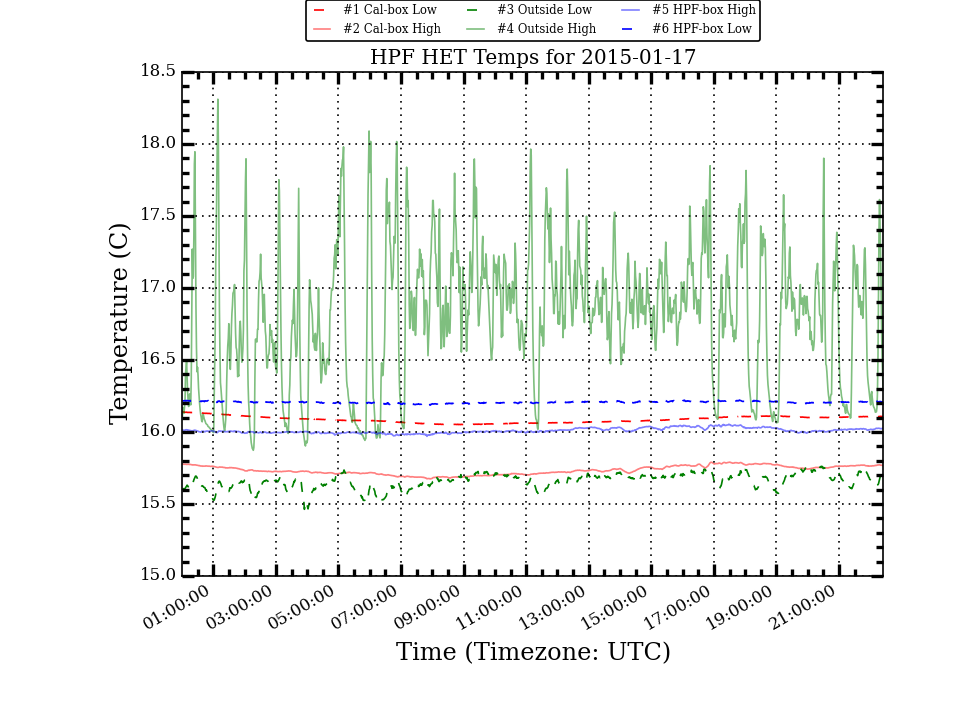
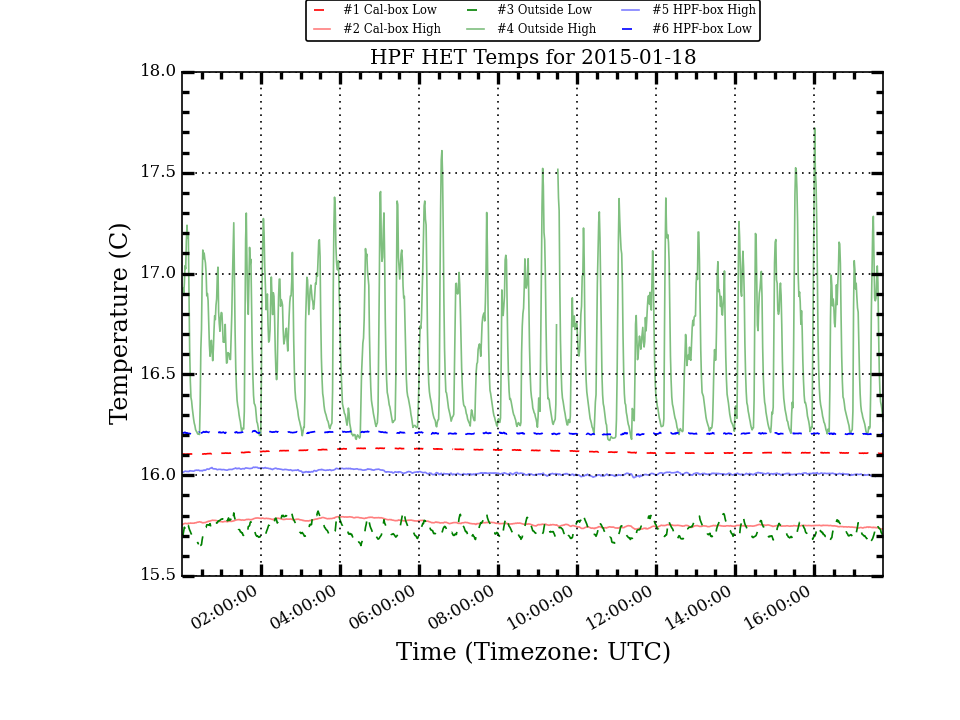
Update HPF Temp Plots

diff --git a/research/hpf_temps/plots/LakeShoreLogTotal_stats.html b/research/hpf_temps/plots/LakeShoreLogTotal_stats.html
@@ -1,0 +1,65 @@
+<TABLE cellpadding="4" style="border: 1px solid #000000; border-collapse: collapse;" border="1">
+ <TR>
+  <TH>Sensor</TH>
+  <TH>Mean</TH>
+  <TH>std</TH>
+  <TH>Median</TH>
+  <TH>Max</TH>
+  <TH>Min</TH>
+  <TH>Range</TH>
+ </TR>
+ <TR>
+  <TD>Sensor1</TD>
+  <TD>16.578</TD>
+  <TD>0.456</TD>
+  <TD>16.428</TD>
+  <TD>17.410</TD>
+  <TD>15.840</TD>
+  <TD>1.570</TD>
+ </TR>
+ <TR>
+  <TD>Sensor2</TD>
+  <TD>16.212</TD>
+  <TD>0.488</TD>
+  <TD>16.023</TD>
+  <TD>17.114</TD>
+  <TD>15.410</TD>
+  <TD>1.704</TD>
+ </TR>
+ <TR>
+  <TD>Sensor3</TD>
+  <TD>16.204</TD>
+  <TD>0.539</TD>
+  <TD>15.985</TD>
+  <TD>17.201</TD>
+  <TD>14.942</TD>
+  <TD>2.259</TD>
+ </TR>
+ <TR>
+  <TD>Sensor4</TD>
+  <TD>16.866</TD>
+  <TD>0.596</TD>
+  <TD>16.752</TD>
+  <TD>18.311</TD>
+  <TD>14.104</TD>
+  <TD>4.207</TD>
+ </TR>
+ <TR>
+  <TD>Sensor5</TD>
+  <TD>16.242</TD>
+  <TD>0.476</TD>
+  <TD>16.044</TD>
+  <TD>17.147</TD>
+  <TD>15.149</TD>
+  <TD>1.998</TD>
+ </TR>
+ <TR>
+  <TD>Sensor6</TD>
+  <TD>16.443</TD>
+  <TD>0.472</TD>
+  <TD>16.238</TD>
+  <TD>17.356</TD>
+  <TD>14.668</TD>
+  <TD>2.688</TD>
+ </TR>
+</TABLE>

diff --git a/research/hpf_temps/plots/LakeShoreLogTotal_today_stats.html b/research/hpf_temps/plots/LakeShoreLogTotal_today_stats.html
@@ -1,0 +1,65 @@
+<TABLE cellpadding="4" style="border: 1px solid #000000; border-collapse: collapse;" border="1">
+ <TR>
+  <TH>Sensor</TH>
+  <TH>Mean</TH>
+  <TH>std</TH>
+  <TH>Median</TH>
+  <TH>Max</TH>
+  <TH>Min</TH>
+  <TH>Range</TH>
+ </TR>
+ <TR>
+  <TD>Sensor1</TD>
+  <TD>16.118</TD>
+  <TD>0.009</TD>
+  <TD>16.115</TD>
+  <TD>16.134</TD>
+  <TD>16.104</TD>
+  <TD>0.030</TD>
+ </TR>
+ <TR>
+  <TD>Sensor2</TD>
+  <TD>15.760</TD>
+  <TD>0.016</TD>
+  <TD>15.756</TD>
+  <TD>15.794</TD>
+  <TD>15.732</TD>
+  <TD>0.062</TD>
+ </TR>
+ <TR>
+  <TD>Sensor3</TD>
+  <TD>15.730</TD>
+  <TD>0.035</TD>
+  <TD>15.724</TD>
+  <TD>15.822</TD>
+  <TD>15.651</TD>
+  <TD>0.171</TD>
+ </TR>
+ <TR>
+  <TD>Sensor4</TD>
+  <TD>16.594</TD>
+  <TD>0.339</TD>
+  <TD>16.505</TD>
+  <TD>17.722</TD>
+  <TD>16.173</TD>
+  <TD>1.549</TD>
+ </TR>
+ <TR>
+  <TD>Sensor5</TD>
+  <TD>16.012</TD>
+  <TD>0.011</TD>
+  <TD>16.009</TD>
+  <TD>16.040</TD>
+  <TD>15.988</TD>
+  <TD>0.052</TD>
+ </TR>
+ <TR>
+  <TD>Sensor6</TD>
+  <TD>16.208</TD>
+  <TD>0.004</TD>
+  <TD>16.208</TD>
+  <TD>16.221</TD>
+  <TD>16.194</TD>
+  <TD>0.027</TD>
+ </TR>
+</TABLE>

diff --git a/research/hpf_temps/plots/LakeShoreLogTotal_week_stats.html b/research/hpf_temps/plots/LakeShoreLogTotal_week_stats.html
@@ -1,0 +1,65 @@
+<TABLE cellpadding="4" style="border: 1px solid #000000; border-collapse: collapse;" border="1">
+ <TR>
+  <TH>Sensor</TH>
+  <TH>Mean</TH>
+  <TH>std</TH>
+  <TH>Median</TH>
+  <TH>Max</TH>
+  <TH>Min</TH>
+  <TH>Range</TH>
+ </TR>
+ <TR>
+  <TD>Sensor1</TD>
+  <TD>16.152</TD>
+  <TD>0.041</TD>
+  <TD>16.153</TD>
+  <TD>16.235</TD>
+  <TD>16.051</TD>
+  <TD>0.184</TD>
+ </TR>
+ <TR>
+  <TD>Sensor2</TD>
+  <TD>15.798</TD>
+  <TD>0.048</TD>
+  <TD>15.798</TD>
+  <TD>15.915</TD>
+  <TD>15.674</TD>
+  <TD>0.241</TD>
+ </TR>
+ <TR>
+  <TD>Sensor3</TD>
+  <TD>15.746</TD>
+  <TD>0.068</TD>
+  <TD>15.747</TD>
+  <TD>15.947</TD>
+  <TD>15.463</TD>
+  <TD>0.484</TD>
+ </TR>
+ <TR>
+  <TD>Sensor4</TD>
+  <TD>16.666</TD>
+  <TD>0.375</TD>
+  <TD>16.681</TD>
+  <TD>18.311</TD>
+  <TD>15.776</TD>
+  <TD>2.535</TD>
+ </TR>
+ <TR>
+  <TD>Sensor5</TD>
+  <TD>16.027</TD>
+  <TD>0.017</TD>
+  <TD>16.028</TD>
+  <TD>16.073</TD>
+  <TD>15.970</TD>
+  <TD>0.103</TD>
+ </TR>
+ <TR>
+  <TD>Sensor6</TD>
+  <TD>16.225</TD>
+  <TD>0.013</TD>
+  <TD>16.227</TD>
+  <TD>16.251</TD>
+  <TD>16.186</TD>
+  <TD>0.065</TD>
+ </TR>
+</TABLE>

diff --git a/research/hpf_temps/index.html b/research/hpf_temps/index.html
@@ -19,15 +19,21 @@
 
 	<!--JavaScripts -->
 	<script src="/js/jquery-2.0.3.min.js"></script>
+  <script src="http://ajax.googleapis.com/ajax/libs/jquery/2.0.0/jquery.min.js"></script>
+
 	<script type="text/javascript"
-	src="http://cdn.mathjax.org/mathjax/latest/MathJax.js?config=TeX-AMS-MML_HTMLorMML"></script>
 	<script type="text/javascript" src="/js/bootstrap.js"></script>
     <script type="text/javascript">
 	$(document).ready(function() {
 	// $('.carousel').carousel();
+
 	$('.carousel').pause();
-	});
     </script> 
+    <script type="text/javascript">
+	    $.get('plots/LakeShoreLogTotal_stats.txt', function(data) {
+	      $("#het_pi_totalstats").html(data);
+	    }, 'text');
+    </script>
 
 
     <!--Meta -->
@@ -82,6 +88,7 @@ v-collapse">
 
     <div class="container">
 
+<div id="het_pi_totalstats"></div>
 
 <div class="row-fluid">
 	<div class="span8">
